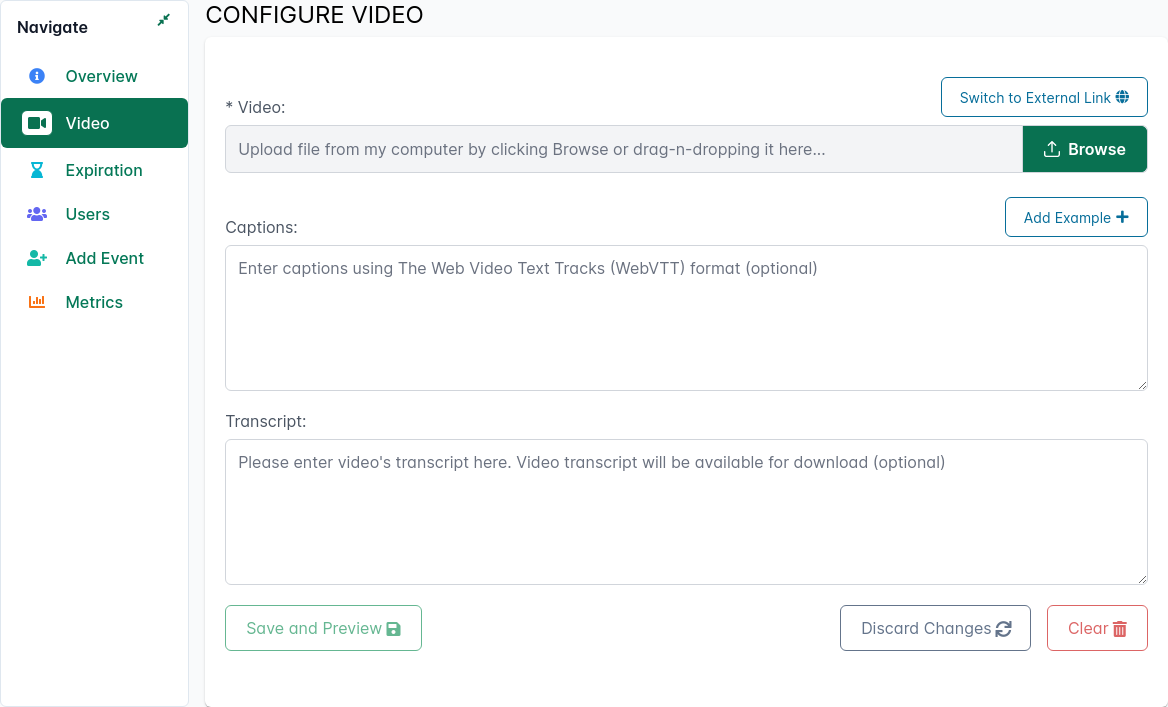
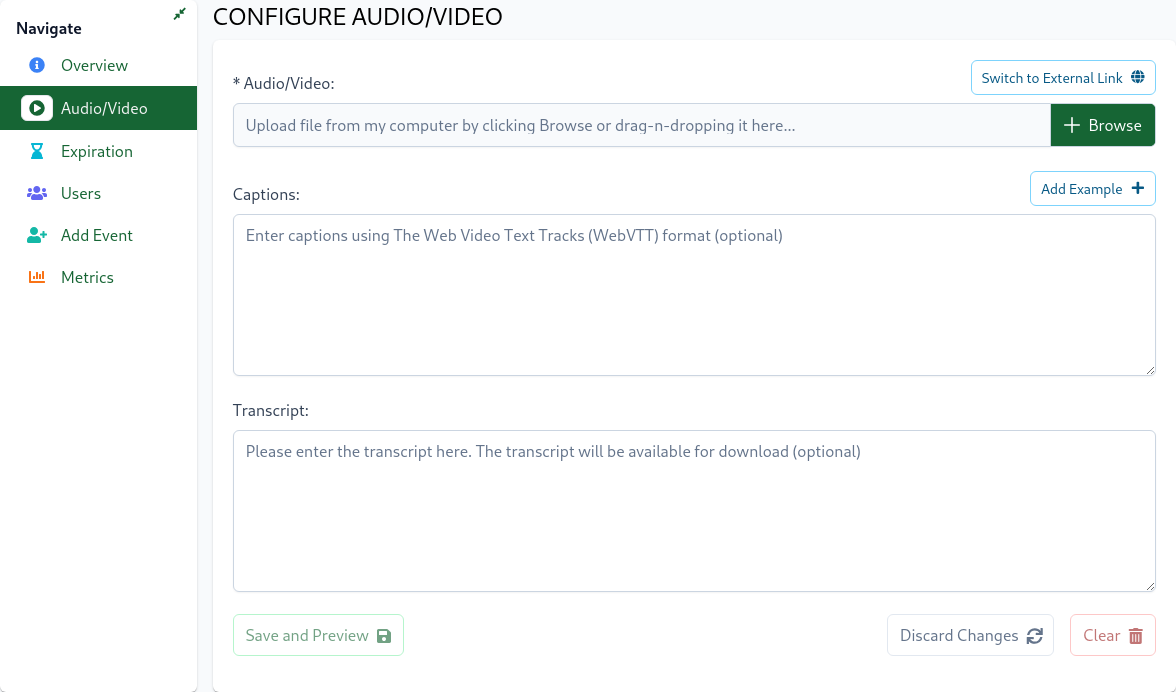
#308: documented 3.5 release; upgraded cypress

diff --git a/cypress/e2e/admin-quiz_and_surveys.cy.js b/cypress/e2e/admin-quiz_and_surveys.cy.js
@@ -41,6 +41,12 @@ context('Admin: Generate Quiz and Surveys Screenshots', () => {
         cy.get('[data-cy="questionText"] [data-cy="markdownEditorInput"]')
 
         cy.snap('modal-new-question', '.p-dialog')
+
+        cy.get('[data-cy="answerHintEnableCheckbox"]').click()
+        cy.get('[data-cy="answerHint"]').clear()
+        cy.get('[data-cy="answerHint"]').type('A clever hint that will assist trainees')
+
+        cy.snap('modal-new-question-hint-component', '.p-dialog [data-cy="answerHintSection"]')
     })
 
     it('configure quiz', () => {

diff --git a/docs/dashboard/user-guide/skills.md b/docs/dashboard/user-guide/skills.md
@@ -53,10 +53,12 @@ You can also disable the Time Window property of a Skill, which will force each 
 - "Repetition is the mother of learning" - use the ``Occurrences to Completion`` property in conjunction with the [Time Window](/dashboard/user-guide/skills.html#time-window) property to balance between requiring repetition of an action and spacing out that repetition (for example, prevent users from spamming an action in one sitting to max out a Skill by setting a Time Window of 1-8 hours)
 - Help Url - configure the [Root Help Url](/dashboard/user-guide/projects.html#setting-root-help-url) for the project and then enter a path relative to that root. It will then be an easy change if the location of help articles changes. You can also author external links into the description itself if more than one external resource needs to be linked to.
 
-## Videos
+## Audio/Video
 
-SkillTree supports embedding videos into the skill description and optionally configured to achieve that skill once the
-video is fully watched. You can either embed externally hosted videos OR upload a video directly into SkillTree.  
+SkillTree allows embedding videos or audios into skill descriptions, with optional configuration to achieve the skill upon full playback.
+
+### Videos
+You can either embed externally hosted videos OR upload a video directly into SkillTree.  
 
 - **SkillTree Hosted**: upload a video using file-upload form (Browse button) or by drag-n-dropping video files 
   - SkillTree supported video formats are:
@@ -65,7 +67,7 @@ video is fully watched. You can either embed externally hosted videos OR upload 
 - **Externally Hosted**: enter URL that points to a video hosted on another web server (ex. `https://someloca/.../../video.mp4`)
 
 
-To configure a video, please navigate to `Project -> Subject -> Skill -> Video`   
+To configure a video, please navigate to `Project -> Subject -> Skill -> Audio/Video`   
 
 ![Video Config Page](../../screenshots/admin/page-video-config.png)
 
@@ -89,19 +91,37 @@ Trainees can also resize videos, and their personalized configurations will be a
 local storage and will take priority over the default.
 :::
 
-### Achieve Skill By Watching the Video 
+### Audio
 
-Once the video's settings are specified the skill can also be configured to be achieved after the trainee watched the entire video (>96%). 
-Video-based achievements are done using [Self Reporting](/dashboard/user-guide/self-reporting.html) mechanism and can be easily 
-selected by editing that skill and selecting `Video` Self Reporting type. 
+Users can upload audio files by navigating to `Project -> Subject -> Skill -> Audio/Video` and selecting the desired
+file using the Browse button or drag-n-drop functionality.
 
-::: tips
-Please note that self reporting by watching the video completes the skill, so when the `Video` type is
-selected, `Occurrences to Completion` are set to `1` and cannot be changed.
+The following audio formats are supported:
+- WAV
+- MPEG
+- MP4
+- AAC
+- AACP
+- OGG
+- WEBM
+- FLAC
+
+The configuration also allows for the specification of a Transcript value to enhance video accessibility.`
+`
+### Achieving Skills through Audio/Video Playback
+
+Once the audio/video settings are specified, the skill can be configured to be achieved after the trainee has watched or
+listened to the entire video/audio (>96%). This is done using
+the [Self Reporting](/dashboard/user-guide/self-reporting.html) mechanism, which can be easily selected by editing the
+skill and choosing the `Audio/Video` Self Reporting type.
+
+::: tip
+Note that self-reporting via audio/video playback completes the skill. When the `Audio/Video` type is selected,
+`Occurrences to Completion` is set to `1` and cannot be changed.
 :::
 
-If a video has a transcript configured then users will also be allowed to earn the skill by reading its transcript
-and then self-certifying to receive the credit for the skill. 
+Additionally, if a transcript is configured for the audio/video, users can also earn the skill by reading the transcript
+and self-certifying to receive credit.
 
 ## Expire Points and Achievements
 

diff --git a/docs/dashboard/user-guide/quizzes-and-surveys.md b/docs/dashboard/user-guide/quizzes-and-surveys.md
@@ -64,8 +64,19 @@ includes a generous feature set including attaching or copy-and-pasting screensh
 Use the `Preview` button on the top left below the Quiz name in order to see what the quiz will look like to your users.
 :::
 
-### Answer Grading <since project="skills-service" version="3.2" />
+### Answer Hints <since project="skills-service" version="3.5" />
 
+When creating a question, quiz administrators can configure helpful answer hints, which are displayed next to the
+question during the quiz. To enter a hint, create a new question or edit an existing one and click the
+`Enable Answer Hint` switch.
+
+![modal-new-question-hint-component.png](../../screenshots/admin/modal-new-question-hint-component.png)
+
+Additionally, administrators can enable the [Only Show Hints on Retake Attempts](/dashboard/user-guide/quizzes-and-surveys.html#setting-only-show-hints-on-retake-attempts) option, which
+will only display answer hints on subsequent quiz retakes after the first attempt was unsuccessful.
+To enable or disable this option, navigate to the Quiz's Settings page.
+
+### Answer Grading
 
 If a quiz has at least 1 ``Input Text`` question then after a quiz taker submits an attempt a quiz administrator will be able to grade the answers for the ``Input Text`` questions.
 
@@ -123,20 +134,28 @@ If enabled, each question's answers are presented in a random order each time th
 If a time limit is set, users will have a specific duration to complete the quiz. 
 If they exceed the time limit, their attempt will be marked as 'Failed'.
 
-#### Setting: Allow Retakes After Completion <since project="skills-service" version="3.1" />
+#### Setting: Allow Retakes After Completion
 
 With this feature enabled, users can retake quizzes even after achieving a passing score. The system
 accurately tracks each successful attempt, providing a comprehensive view of user progress and performance. 
 
-#### Setting: Show Correct Answers On Failure: <since project="skills-service" version="3.1" />
+#### Setting: Show Correct Answers On Failure
 
 Enabling this feature will provide the correct answers on failed quiz attempts, allowing users to review and understand
 the correct answers, improving their learning and understanding of the material.
 
-#### Setting : Limit Retake to Incorrect Questions <since project="skills-service" version="3.4" />
+#### Setting: Limit Retake to Incorrect Questions <since project="skills-service" version="3.4" />
 
 Enabling this feature limits the questions presented to users when retaking a quiz to those that were answered
 incorrectly on the previous attempt.
+
+#### Setting: Only Show Hints on Retake Attempts  <since project="skills-service" version="3.5" />
+
+Enabling this feature will only display answer hints on subsequent quiz retakes after the first attempt was unsuccessful.
+
+#### Setting: Display Quiz Description During Quiz <since project="skills-service" version="3.5" />
+
+Enabling this feature will display the quiz description while the quiz is being taken.
 
 ## Survey
 
@@ -172,7 +191,7 @@ Use the `Preview` button on the top left below the Survey name in order to see w
 
 A Survey has customization parameters, to customize a survey please navigate to ``Quizzes and Surveys -> Survey -> Settings`` page.
 
-#### Setting: Allow Retakes After Completion <since project="skills-service" version="3.1" />
+#### Setting: Allow Retakes After Completion
 
 With this feature enabled, users can retake surveys unlimited number of times. The system
 accurately tracks each completion, providing a comprehensive view of user progress and performance.

diff --git a/docs/dashboard/user-guide/self-reporting.md b/docs/dashboard/user-guide/self-reporting.md
@@ -12,7 +12,9 @@ There are four ``Self report`` types available:
 1. [Approval Queue](/dashboard/user-guide/self-reporting.html#approval-queue) - request goes into the project's approval queue; project administrators can approve or deny requests.  Note When choosing Approval Queue, you may also choose to require users to submit a justification when self-reporting this skill by selecting the 'Justification Required' check box.
 1. [Quiz](/dashboard/user-guide/quizzes-and-surveys.html) - a knowledge check composed of multiple questions with a passing requirement; association of a Quiz requires successful passage of that Quiz in order to earn the skill and its points
 1. [Survey](/dashboard/user-guide/quizzes-and-surveys.html) - a method to get feedback about that skill or collect information related to the skill; association of a Survey requires completion of that Survey before skill and its points are awarded
-1. [Video](/dashboard/user-guide/skills.html#videos) - points are awarded after the configured video is fully watched 
+1. [Audio/Video](/dashboard/user-guide/skills.html#audio-video) - points are awarded upon full playback
+
+
 
 ::: tip 
 Project administrators can craft training profiles consisting of:
@@ -49,8 +51,8 @@ earn the skill and its points
 - Please learn more in the [Quizzes and Surveys](/dashboard/user-guide/quizzes-and-surveys.html) section
 :::
 
-::: tip Video
-Please note that in order to select the `Video` type, the skill's [video settings](/dashboard/user-guide/skills.html#videos) must be configured.
+::: tip Audio/Video
+Please note that in order to select the `Audio/Video` type, the skill's [audio/video settings](/dashboard/user-guide/skills.html#audio-video) must be configured.
 :::
 
 ## Skills Display

diff --git a/docs/release-notes/skills-service.md b/docs/release-notes/skills-service.md
@@ -8,6 +8,22 @@ To obtain deployable artifacts please visit [Distributions](/dashboard/install-g
 
 </conditional>
 
+## 3.5.0 <release-date date="March 2025" />
+- [Quiz Answer Hints](/dashboard/user-guide/quizzes-and-surveys.html#answer-hints)
+  - Implemented ability to configure helpful answer hints for quizzes, which are displayed next to the question during the quiz.
+  - Added option to only show answer hints on subsequent quiz retakes.
+- [Audio Skills](/dashboard/user-guide/skills.html#audio-video) 
+  - Introduced ability to upload and configure audio for skills
+  - Skills can be configured to require audio completion for achievement
+- Added a new quiz setting, [Display Quiz Description During Quiz](/dashboard/user-guide/quizzes-and-surveys.html#setting-display-quiz-description-during-quiz), which, when enabled, displays the quiz description while the quiz is being taken.
+- Added validation for Video Captions WebVTT format
+- Upgraded Spring Boot
+- Upgraded PrimeVue and TailwindCSS libraries 
+- Bug Fixes
+
+## 3.4.1 <release-date date="February 2025" />
+- Bug Fixes
+
 ## 3.4.0 <release-date date="February 2025" />
 - Enhanced display of Learning Path when Badges have a lot of skills, therefore enabling users to better understand skills with configured prerequisites.
 - Implemented an optional quiz setting to [only include incorrect questions on retake attempts](/dashboard/user-guide/quizzes-and-surveys.html#setting-limit-retake-to-incorrect-questions)

diff --git a/docs/dashboard/user-guide/settings.md b/docs/dashboard/user-guide/settings.md
@@ -21,7 +21,7 @@ Users have a choice of a default landing page. If the majority of time is spent 
 
 Change this setting to true and you will not be shown on the Leaderboard or assigned a rank for all projects. 
 
-### Setting: Dark Mode <since project="skills-service" version="3.0" />
+### Setting: Dark Mode
 
 Enabling Dark Mode will switch UI into light-on-dark color scheme. For example:
 
